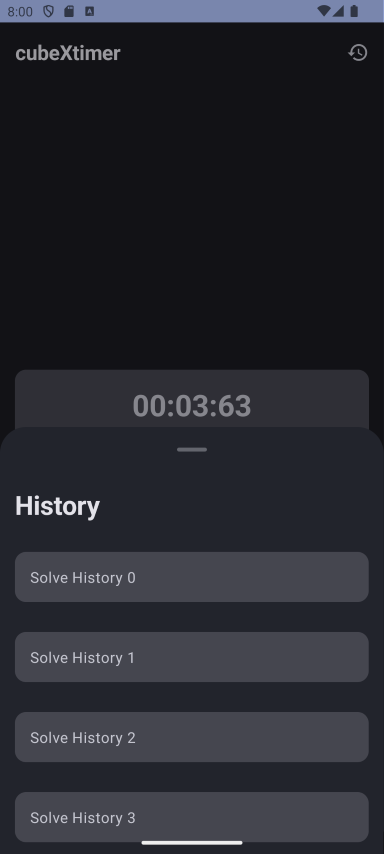
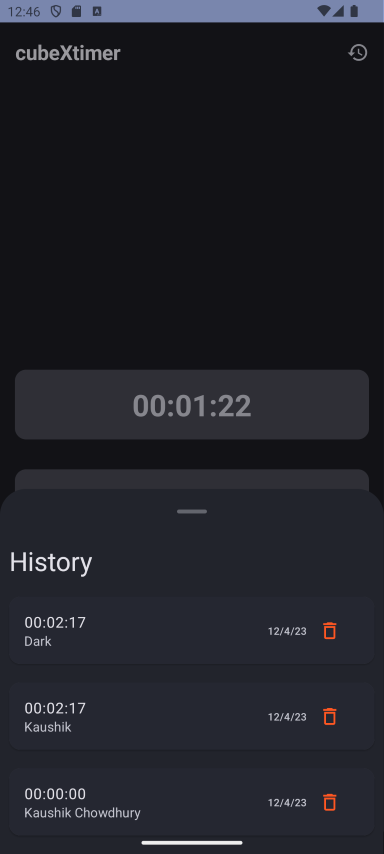
Changed README.md

diff --git a/app/src/main/java/com/example/dark_x_timer_kotlin/ui/counter/historySheet/HIstorySheetUI.kt b/app/src/main/java/com/example/dark_x_timer_kotlin/ui/counter/historySheet/HIstorySheetUI.kt
@@ -16,10 +16,12 @@ import androidx.compose.material3.MaterialTheme
 import androidx.compose.material3.Text
 import androidx.compose.runtime.Composable
 import androidx.compose.runtime.collectAsState
+import androidx.compose.ui.Alignment.Companion.CenterVertically
 import androidx.compose.ui.Modifier
 import androidx.compose.ui.unit.dp
 import androidx.lifecycle.viewmodel.compose.viewModel
 import com.example.dark_x_timer_kotlin.ui.AppViewModelProvider
+import com.example.dark_x_timer_kotlin.ui.theme.PastelRed
 import java.util.Date
 
 @Composable
@@ -51,9 +53,9 @@ fun HistoryBottomSheet(
                     trailingContent = {
                         val date = Date(it.date)
                         Row {
-                            Text(text = sdf.format(date))
+                            Text(text = sdf.format(date), modifier = Modifier.align(CenterVertically))
                             IconButton(onClick = { /*TODO*/ }) {
-                                 Icon(Icons.Outlined.Delete, contentDescription = null)
+                                 Icon(Icons.Outlined.Delete, contentDescription = null, tint = PastelRed)
                             }
                         }
                     }

diff --git a/app/src/main/java/com/example/dark_x_timer_kotlin/ui/counter/historySheet/HistoryViewModel.kt b/app/src/main/java/com/example/dark_x_timer_kotlin/ui/counter/historySheet/HistoryViewModel.kt
@@ -8,7 +8,7 @@ import kotlinx.coroutines.flow.map
 import kotlinx.coroutines.flow.stateIn
 
 class HistoryViewModel(
-    val repo: SolveTimeRepo
+    repo: SolveTimeRepo
 ) : ViewModel() {
     val stateFlow = repo.getItems().map {
         HistorySheetState(

diff --git a/README.md b/README.md
@@ -3,33 +3,49 @@
 A simple timer for your everyday cube solving needs.
 
 ## Why not stopwatch?
+
 - To time your solves correctly and quickly you need a big touch target which most stopwatches lack.
 - You also can save and view your times in a list.
 
 ## Screenshots
+
 <img src="screenshots/timer_initial.png" height="400" alt="Initial Timer">
 <img src="screenshots/timer_paused.png" height="400" alt="Paused Timer">
+<img src="screenshots/timer_save.png" height="400" alt="Running Timer">
 <img src="screenshots/timer_history.png" height="400" alt="Timer History">
 
 ## Features
+
 - [x] Timer
 - [x] List of times
 - [x] Delete times
 - [x] Save times
 
 ## What's Working?
+
 - [x] Timer
 - [x] Animation
+- [x] History
+- [x] Save times
 
 ## What's to be fixed?
-- [ ] Create a SQL database to store times
-- [ ] Implement save times
+
 - [ ] Implement delete times
-- [ ] Fill the list with times from the database
+- [ ] Make a dialog for delete confirmation
+- [ ] Improve Look of history
+- [ ] Improve overall look of the app
 - [ ] Write some tests for view-models
 - [ ] Write a README.md file
 
+## Pre-requisites
+
+- Language: Kotlin
+- UI: Jetpack Compose
+- Architecture: MVVM (Model-View-ViewModel)
+- Database: Room (SQLite)
+
 ## How to contribute?
+
 - Fork the repository
 - Clone the repository
 - Create a new branch
